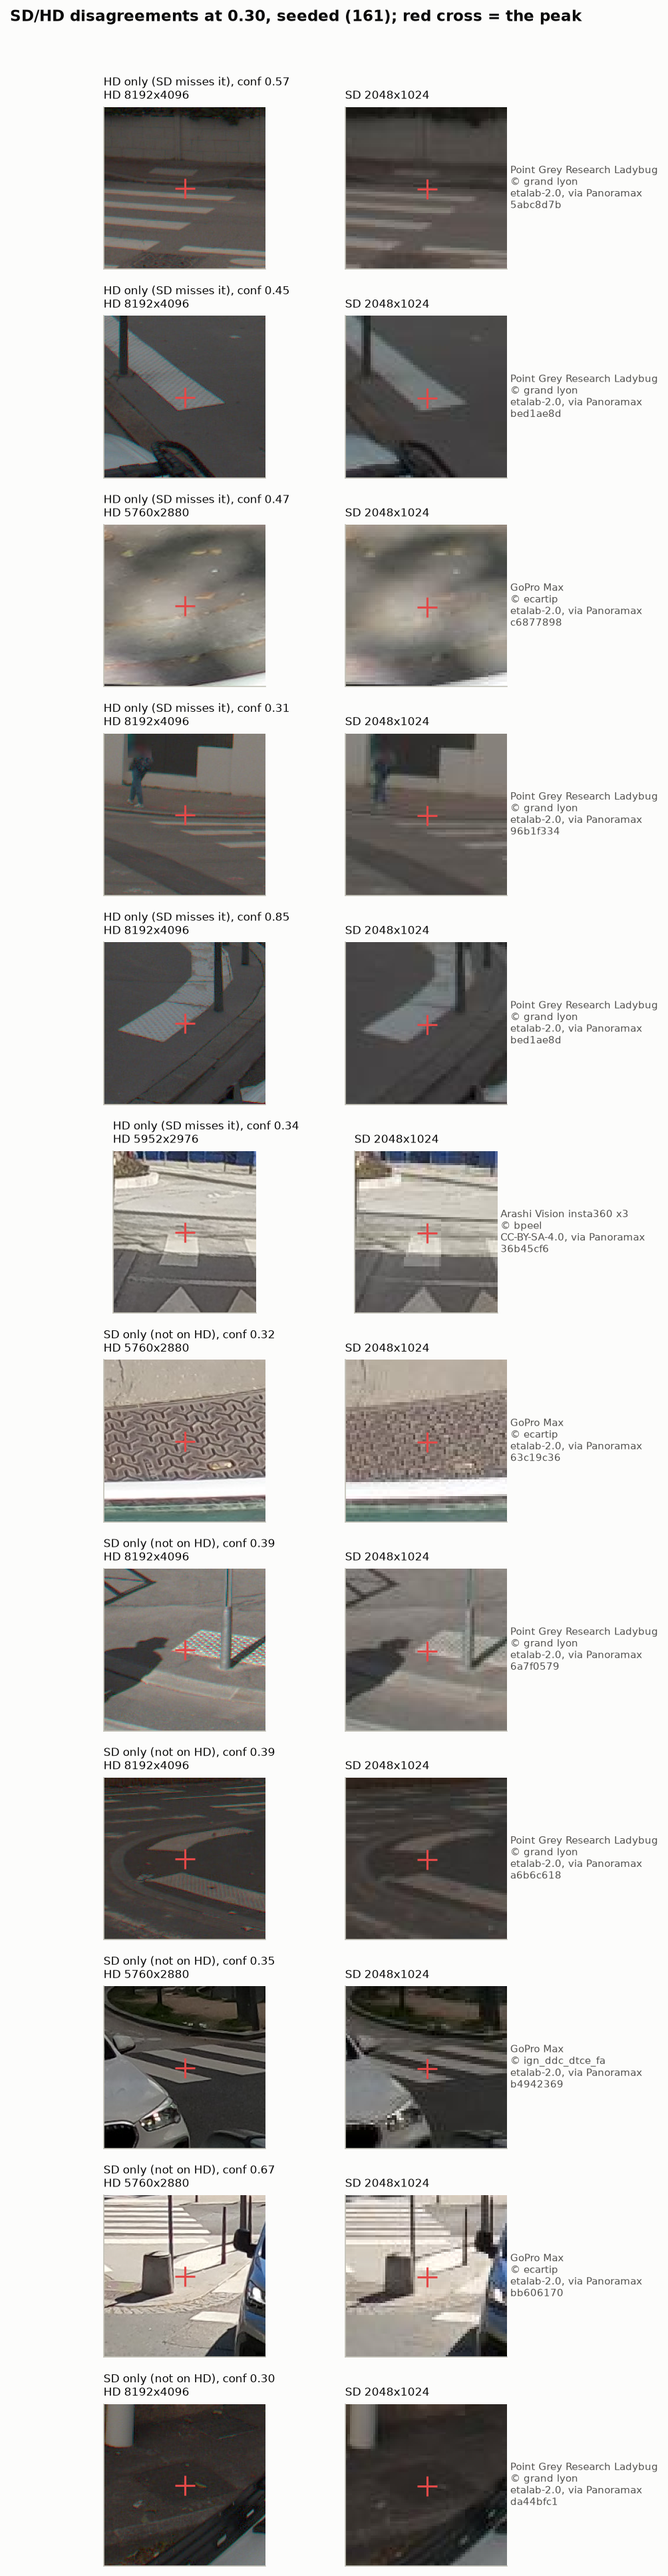
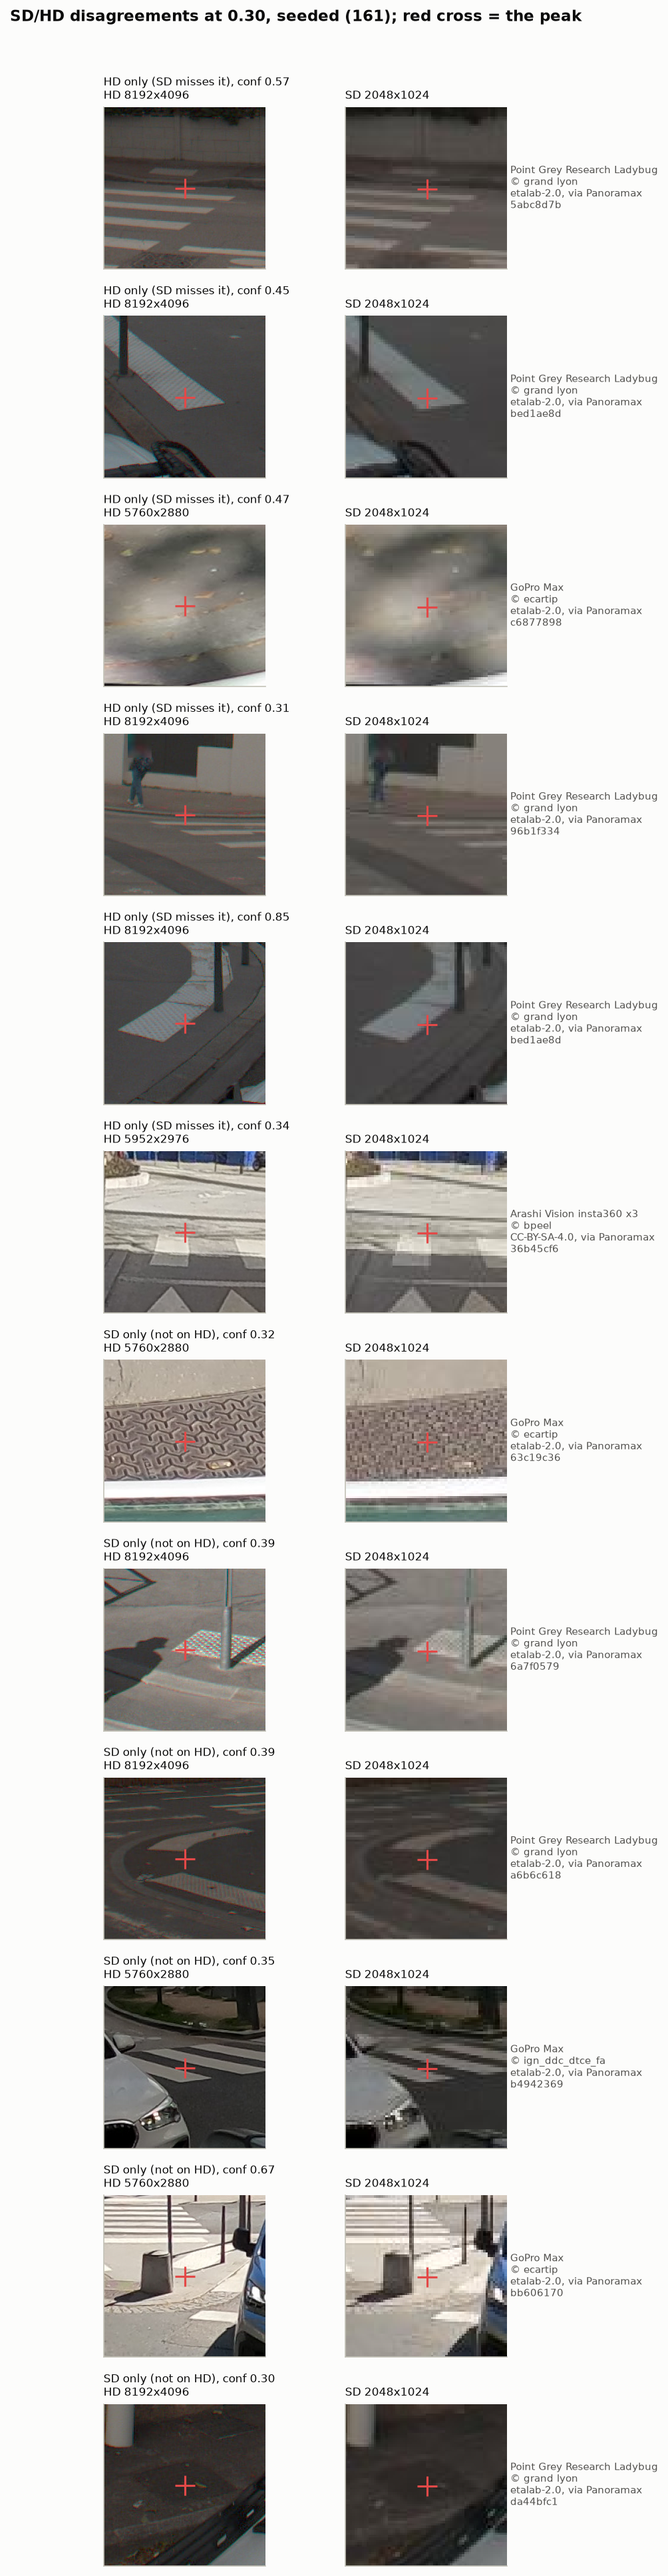
panoramax: review fixes for #173 (limiter coverage, prepare, wording)
From the deep review of PR #173:
- panoramax_bayonne_figures.py's two HD downloads now go through the
  picture limiter (they called requests.get directly).
- prepare() retries like the item fetch, waits out a 429/503 pause, and
  says "overloaded, retry later" rather than blaming PANORAMAX_API_URL.
- The binding refusal names the flag (--panoramax-asset <bound>).
- --scan-only prints the download floor beside the pipeline estimate.
- A failed /search un-marks its followers and rewinds the cursor, so a
  later miss batches them again; SD fallbacks count once per pano
  written; run entries record the effective processing concurrency.
- Study: the 37% / 26% / 15% wording separated, fetch_meta.json
  committed (fetch-sd now writes it), dead wilson() removed, contact
  sheet windows wrap the seam and pad the poles so the cross stays on
  the peak, and the detections.jsonl content-vs-bytes note.

diff --git a/sources/panoramax.py b/sources/panoramax.py
@@ -112,6 +112,7 @@ IMAGE_ASSETS = ('hd', 'sd')
 IMAGE_ASSET = 'hd'
 MANIFEST_ASSET_KEY = 'panoramax_asset'
 LEGACY_MANIFEST_BINDINGS = {MANIFEST_ASSET_KEY: 'hd'}
+MANIFEST_BINDING_FLAGS = {MANIFEST_ASSET_KEY: '--panoramax-asset'}   # named in a refusal
 
 # The catalog answers 404 for a picture id it doesn't know (deleted by its uploader, an
 # instance that left the federation, or never valid) — verified live for both a
@@ -158,13 +159,27 @@ def prepare():
     answer a STAC Catalog here).
     """
     root = api_url()
-    try:
-        response = _get(root, 'metadata', timeout=30)
-        response.raise_for_status()
-        catalog = response.json()
-    except Exception as e:
+    catalog, error, overloaded = None, None, False
+    for attempt in range(ATTEMPTS):
+        try:
+            response = _get(root, 'metadata', timeout=30)   # waits out any 429/503 pause
+            overloaded = getattr(response, 'status_code', None) in OVERLOAD_STATUSES
+            response.raise_for_status()
+            catalog = response.json()
+            break
+        except Exception as e:
+            error = e
+            if attempt < ATTEMPTS - 1:
+                time.sleep(2 * (attempt + 1) + random.uniform(0, 1))
+    if catalog is None and overloaded:
+        # The root is right; the server asked us to back off. Not a configuration error.
         raise SystemExit(
-            f"\u274c Panoramax API root {root} is not reachable ({e}).\n"
+            f"\u274c Panoramax catalog {root} is overloaded (HTTP 429/503 on every attempt).\n"
+            f"   Retry later; nothing was scanned or fetched."
+        )
+    if catalog is None:
+        raise SystemExit(
+            f"\u274c Panoramax API root {root} is not reachable ({error}).\n"
             f"   Check {API_URL_ENV_VAR}, or unset it to use the federation catalog\n"
             f"   ({DEFAULT_API_URL})."
         )
@@ -356,7 +371,7 @@ def fetch_pano(pano_id, lat, lon):
         return {'status': 'skipped',
                 'reason': f'Not a full 360x180 equirectangular ({declared[0]}x{declared[1]})'}
 
-    asset = 'hd'
+    asset, fell_back = 'hd', False
     if IMAGE_ASSET == 'sd':
         sd_url = image_url(item, asset='sd')
         if sd_url and declared and len(declared) == 2:
@@ -371,7 +386,7 @@ def fetch_pano(pano_id, lat, lon):
                                                   int(declared[1]),
                                                   image_info=_image_info('sd', sd_url, size)),
                         'image': image}
-        _count_fallback()   # no usable SD for this picture: read it in HD
+        fell_back = True    # no usable SD for this picture: read it in HD (counted below)
 
     downloaded, undecodable, detail = _download_image(url)
     if undecodable:
@@ -387,6 +402,8 @@ def fetch_pano(pano_id, lat, lon):
                 'reason': f'Not a full 360x180 equirectangular ({width}x{height})'}
 
     image_info = None if IMAGE_ASSET == 'hd' else _image_info(asset, url, (width, height))
+    if fell_back:
+        _count_fallback()   # once per pano written, not per attempt
     return {'status': 'success',
             'pano': build_pano_record(pano_id, lat, lon, item, width, height,
                                       image_info=image_info),
@@ -495,7 +512,7 @@ def _hinted_item(picture_id):
             return None
         chunk = [picture_id]
         requested.add(picture_id)
-        cursor = _HINT['cursor']
+        cursor = start = _HINT['cursor']
         while cursor < len(ids) and len(chunk) < SEARCH_CHUNK:
             pid = ids[cursor]
             cursor += 1
@@ -504,6 +521,12 @@ def _hinted_item(picture_id):
                 requested.add(pid)
         _HINT['cursor'] = cursor
         found = fetch_items(chunk)
+        if found is None:
+            # The request failed: nothing was learned about the followers, so let a later
+            # miss batch them again (this one goes to the per-id GET).
+            requested.difference_update(chunk[1:])
+            _HINT['cursor'] = start
+            return None
         if not found:
             return None
         for pid in chunk[1:]:

diff --git a/tests/test_panoramax_politeness.py b/tests/test_panoramax_politeness.py
@@ -502,3 +502,73 @@ def test_study_bootstrap_is_seeded_and_brackets_the_estimate():
     rows = [{"m": i % 3, "n": 3} for i in range(30)]
     lo, hi = study.bootstrap_ci(rows, "m", "n")
     assert lo <= 1 / 3 <= hi and (lo, hi) == study.bootstrap_ci(rows, "m", "n")
+
+
+# --- review of PR #173 ----------------------------------------------------------------
+
+def test_prepare_says_overloaded_not_misconfigured_on_429(monkeypatch):
+    clock = FakeClock()
+    lims = _limited(monkeypatch, clock)
+    monkeypatch.setattr(panoramax.time, "sleep", lambda s: None)
+    monkeypatch.setattr(panoramax.requests, "get", lambda url, **kw: _resp(
+        429, headers={"Retry-After": "7"}))
+    with pytest.raises(SystemExit) as e:
+        panoramax.prepare()
+    assert "overloaded" in str(e.value) and "PANORAMAX_API_URL" not in str(e.value)
+    assert lims["metadata"].pauses == panoramax.ATTEMPTS        # every attempt waited
+    answers = [_resp(503), _resp(200, payload={"stac_version": "1.0.0"})]
+    monkeypatch.setattr(panoramax.requests, "get", lambda url, **kw: answers.pop(0))
+    panoramax.prepare()                                          # a retry gets through
+
+
+def test_a_failed_search_lets_a_later_miss_rebatch_the_followers(monkeypatch):
+    monkeypatch.setattr(panoramax, "SEARCH_CHUNK", 3)
+    log = _search_server(monkeypatch, fail_search=True)
+    panoramax.queue_hint(["a", "b", "c"])
+    panoramax.fetch_item("a")                                   # search fails -> per-id
+    monkeypatch.setattr(panoramax, "fetch_items", lambda ids: log.append(("batch", ids)) or {
+        i: dict(make_item(), id=i) for i in ids})
+    assert panoramax.fetch_item("b")[0]["id"] == "b"
+    assert log[-1] == ("batch", ["b", "c"])                     # b, c were un-marked
+
+
+def test_refusal_names_the_flag(tmp_path, monkeypatch):
+    monkeypatch.setattr(panoramax, "IMAGE_ASSET", "sd")
+    with pytest.raises(SystemExit) as e:
+        main.bind_source_settings({"panoramax_asset": "hd"}, panoramax, _run_dir(tmp_path))
+    assert "pass --panoramax-asset hd for this run" in str(e.value)
+
+
+def test_fallback_counts_once_per_pano_written(monkeypatch):
+    monkeypatch.setattr(panoramax, "IMAGE_ASSET", "sd")
+    _patch_downloads(monkeypatch, {"sd.jpg": (None, False, "Image asset HTTP 404"),
+                                   "b7f9.jpg": (None, False, "reset")})
+    assert panoramax.fetch_pano("pid", 43.49, -1.47)["status"] == "failure"
+    assert panoramax.run_record()["asset_fallbacks"] == 0       # HD failed: nothing written
+
+
+def test_bayonne_figures_download_through_the_limiter(monkeypatch):
+    import io
+    import panoramax_bayonne_figures as bf
+    from PIL import Image
+    buf = io.BytesIO()
+    Image.new("RGB", (4, 2)).save(buf, "JPEG")
+    kinds = []
+    real = panoramax.limiter
+    monkeypatch.setattr(panoramax, "limiter", lambda kind: kinds.append(kind) or real(kind))
+    monkeypatch.setattr(panoramax.requests, "get", lambda url, **kw: _resp(
+        200, content=buf.getvalue()))
+    assert bf._fetch_image("https://x/hd.jpg").size == (4, 2)
+    assert kinds == ["picture"]
+
+
+def test_contact_sheet_window_keeps_the_peak_centred():
+    from PIL import Image
+    import panoramax_asset_figures as figs
+    img = Image.new("RGB", (100, 50), (255, 0, 0))
+    img.paste((0, 0, 255), (0, 0, 10, 50))                     # blue strip at the left edge
+    win = figs._window(img, 98, 2, 6)                           # straddles seam and top
+    assert win.size == (12, 12)
+    assert win.getpixel((11, 6)) == (0, 0, 255)                 # wrapped from x = 4
+    assert win.getpixel((2, 6)) == (255, 0, 0)
+    assert win.getpixel((6, 0)) == (128, 128, 128)              # padded above the top

diff --git a/main.py b/main.py
@@ -764,6 +764,7 @@ def bind_source_settings(manifest, source, run_dir):
     if hook is None:
         return False
     legacy = getattr(source, 'LEGACY_MANIFEST_BINDINGS', {})
+    flags = getattr(source, 'MANIFEST_BINDING_FLAGS', {})
     results = run_dir / 'results.jsonl'
     has_records = results.exists() and results.stat().st_size > 0
     changed = False
@@ -777,10 +778,12 @@ def bind_source_settings(manifest, source, run_dir):
                 changed = True
                 continue
         if bound != value:
+            hint = (f"pass {flags[key]} {bound} for this run" if key in flags
+                    else "pass the run's own setting")
             sys.exit(
                 f"❌ Run '{run_dir.name}' was made with {key} '{bound}', not '{value}'.\n"
                 f"   Appending would mix two kinds of record in one results.jsonl (issue #161).\n"
-                f"   Use a new --name for this setting (never a resume), or pass the run's own."
+                f"   Use a new --name for this setting (never a resume), or {hint}."
             )
     return changed
 
@@ -1148,8 +1151,10 @@ def run_labeler(geojson_path, run_name, source, scan_only=False, limit=None, thi
         print(f"Scan only — no panoramas processed, nothing recorded in the manifest; "
               f"the scan is saved to {scan_cache_file} for a later --reuse-scan.")
         print(f"Estimated full-run time: ~{est_hours:.1f} h at {per_pano:g} s/pano "
-              + ("(the source's download pacing sets the rate)." if floor > 1.5 else
-                 "(single GPU; measure your machine's rate on a smoke run first)."))
+              f"(single GPU; measure your machine's rate on a smoke run first).")
+        if floor:
+            print(f"Download floor alone: ~{len(panos_to_process_ids) * floor / 3600:.1f} h at "
+                  f"{floor:g} s/pano (the source's pacing; the run can never beat it).")
         return
 
     # 4. Process new panoramas
@@ -1157,7 +1162,8 @@ def run_labeler(geojson_path, run_name, source, scan_only=False, limit=None, thi
 
     if not panos_to_process_ids:
         print("🎉 No new panoramas to process.")
-        scan_record.update(source_run_record(source))   # #161
+        scan_record.update(source_run_record(source),   # #161
+                           processing_concurrency=PROCESSING_CONCURRENCY)
         record_run(manifest_path, manifest, started_at, len(all_panos_in_area), 0, 0, 0,
                    scan=scan_record, provenance=provenance, thinning=thinning_record)
     else:
@@ -1186,7 +1192,8 @@ def run_labeler(geojson_path, run_name, source, scan_only=False, limit=None, thi
                         fail_count += 1
                     pbar.update(1)
 
-        scan_record.update(source_run_record(source))   # #161
+        scan_record.update(source_run_record(source),   # #161
+                           processing_concurrency=PROCESSING_CONCURRENCY)
         record_run(manifest_path, manifest, started_at, len(all_panos_in_area), success_count, skip_count, fail_count,
                    scan=scan_record, provenance=provenance, thinning=thinning_record)
 

diff --git a/scripts/panoramax_asset_figures.py b/scripts/panoramax_asset_figures.py
@@ -163,6 +163,22 @@ def main():
     fig_confidence(plt)
 
 
+def _window(img, cx, cy, r):
+    """A (2r x 2r) crop centred on (cx, cy) that keeps the peak at the centre: wrapped
+    across the 360-degree seam horizontally, padded with grey past the top/bottom edge."""
+    from PIL import Image
+    w, h = img.size
+    side = int(round(2 * r))
+    x0, y0 = int(round(cx - r)), int(round(cy - r))
+    out = Image.new('RGB', (side, side), (128, 128, 128))
+    for shift in (-w, 0, w):                       # the image and its two seam neighbours
+        left, right = max(0, x0 - shift), min(w, x0 - shift + side)
+        top, bottom = max(0, y0), min(h, y0 + side)
+        if left < right and top < bottom:
+            out.paste(img.crop((left, top, right, bottom)), (left + shift - x0, top - y0))
+    return out
+
+
 def contact_sheet(data, per_kind=6):
     """A seeded sheet of disagreements at 0.30: HD peaks SD misses (no SD peak >= 0.1
     within the radius) and SD peaks HD has nothing near, `per_kind` of each drawn with
@@ -185,10 +201,7 @@ def contact_sheet(data, per_kind=6):
         for col, arm in enumerate(('hd', 'sd')):
             img = Image.open(data / arm / f'{pid}.jpg').convert('RGB')
             w, h = img.size
-            cx, cy, r = x * w, y * h, half * w
-            crop = img.crop((int(cx - r), int(cy - r), int(cx + r), int(cy + r))) \
-                if r <= cx <= w - r else img.crop((max(0, int(cx - r)), int(cy - r),
-                                                   min(w, int(cx + r)), int(cy + r)))
+            crop = _window(img, x * w, y * h, half * w)
             ax = axes[row][col]
             ax.imshow(crop)
             ax.plot(crop.size[0] / 2, crop.size[1] / 2, marker='+', ms=14, mew=1.5,

diff --git a/scripts/panoramax_bayonne_figures.py b/scripts/panoramax_bayonne_figures.py
@@ -417,18 +417,16 @@ def _fig7b_data(loaded):
 
 # ============================================================================ examples
 def _fetch_image(url):
-    import requests
     from PIL import Image
     from sources import panoramax as px
-    return Image.open(io.BytesIO(requests.get(url, headers=px._headers(),
-                                              timeout=180).content)).convert('RGB')
+    # Paced by the source's picture limiter (1/s, #161) like every Panoramax download.
+    return Image.open(io.BytesIO(px._get(url, 'picture', timeout=180).content)).convert('RGB')
 
 
 def cmd_skips(args):
     """data/skips.csv: why each cached skip of the run was skipped (network: one STAC item
     per id, plus the first 512 KB of the image for the served size). main.py logs no
     per-pano reasons, so this reconstructs them from today's metadata."""
-    import requests
     from PIL import Image
     from sources import panoramax as px
     run = args.run_root / CITY
@@ -456,8 +454,7 @@ def cmd_skips(args):
             row['reason'] = 'no view:azimuth'
             rows.append(row)
             continue
-        with requests.get(px.image_url(item), headers=px._headers(), timeout=180,
-                          stream=True) as r:
+        with px._get(px.image_url(item), 'picture', timeout=180, stream=True) as r:
             head = r.raw.read(512 * 1024)
         try:
             w, h = Image.open(io.BytesIO(head)).size

diff --git a/scripts/panoramax_asset_study.py b/scripts/panoramax_asset_study.py
@@ -150,16 +150,6 @@ def compare_pano(hd, arm, tier):
             'deltas': deltas, 'classes': classes}
 
 
-def wilson(k, n, z=1.96):
-    if n == 0:
-        return (float('nan'), float('nan'))
-    p = k / n
-    den = 1 + z * z / n
-    centre = (p + z * z / (2 * n)) / den
-    half = z * math.sqrt(p * (1 - p) / n + z * z / (4 * n * n)) / den
-    return (max(0.0, centre - half), min(1.0, centre + half))
-
-
 def ratio(num, den):
     return num / den if den else float('nan')
 
@@ -411,7 +401,15 @@ def cmd_fetch_sd(args):
               ['panorama_id', 'status', 'sd_url', 'bytes', 'sha256', 'sd_width', 'sd_height',
                'live_sensor'])
     print(Counter(r['status'].split(':')[0] for r in done.values()))
-    print(json.dumps(panoramax.run_record(), indent=1))
+    record = panoramax.run_record()
+    print(json.dumps(record, indent=1))
+    # Committed: the measured pacing of this pass (the "1.71 s/picture" in the doc).
+    wall = time.time() - t0
+    (OUT / 'fetch_meta.json').write_text(json.dumps(
+        {'pictures_this_pass': len(todo), 'wall_s_downloads': round(wall, 1),
+         's_per_picture': round(wall / len(todo), 3) if todo else None,
+         'statuses': dict(Counter(r['status'].split(':')[0] for r in done.values())),
+         **record}, indent=2, sort_keys=True) + '\n', encoding='utf-8', newline='\n')
 
 
 # ============================================================================ run

diff --git a/docs/panoramax-asset-study.md b/docs/panoramax-asset-study.md
@@ -138,16 +138,17 @@ PS pano store and the native-res archive all read HD whichever asset detection u
 clause 2 on recall (GoPro Max and the Ladybug on precision too). `--panoramax-asset` keeps
 `hd` as its default; `sd` stays available, bound per run.
 
-**What SD would cost.** Run on SD at 0.30, a Lyon-like city would miss about 37% of the labels
-HD ships (878 SD peaks against 1,182 HD peaks here), and about 15% of what it did ship would
-be labels HD does not make;
+**What SD would cost.** Run on SD at 0.30, a Lyon-like city would miss about 37% of the
+labels HD ships (744 of HD's 1,182 peaks matched), and it would ship 26% fewer labels in all
+(878 against 1,182), about 15% of which are labels HD does not make (878 - 744 = 134);
 lowering the threshold to win recall back trades it against precision on an image the model
 was not trained on. What it would save: 18x the bytes per picture on Panoramax's side.
 Recovering SD would need a model trained or fine-tuned at that resolution, which is a
 RampNet question, not a labeler one.
 
-**What the politeness changes buy instead.** At HD, pacing is the lever: 1 picture/s (1.71
-s/picture end to end in this study's SD fetch: 600 pictures, 0 errors, 0 pauses), one
+**What the politeness changes buy instead.** At HD, pacing is the lever: 1 picture/s (about
+1.7 s/picture end to end in this study's SD fetch: 600 pictures, 0 errors, 0 pauses;
+`fetch_meta.json`), one
 `/search` request per 100 pictures (6 metadata requests for the 600), and 4 workers instead
 of 50.
 
@@ -165,7 +166,8 @@ and its one-to-one SD partner (any SD peak >= 0.1); the diagonal is equal confid
 `figures/panoramax-asset/contact_sheet_disagreements.png` shows 6 HD-only and 6 SD-only
 peaks drawn with seed 161, each as an HD crop beside the SD crop of the same window,
 captioned with its producer and licence (Etalab-2.0 for Grand Lyon / IGN pictures, CC BY-SA
-4.0 otherwise), via Panoramax.
+4.0 otherwise), via Panoramax. Each window is +-6 degrees around the peak, wrapped across
+the seam and padded grey past the top or bottom, so the cross is always on the peak.
 
 ## 3. Replication
 
@@ -196,11 +198,13 @@ Seed 161 (sample, bootstrap, contact sheet). Model `rampnet-model@606a11956743`,
 `606a11956743f7eb328d9207769034752f6191f4`, argmax decode, `exclude` border, batch size 1.
 Python 3.12.13, torch 2.8.0+cu126, transformers 5.12.1, Pillow 12.3.0, matplotlib 3.11.2.
 Host: Windows 11 desktop, NVIDIA RTX 3070 (8 GB; peak 4,288 MiB allocated). Runtime: SD fetch
-1,037 s (600 pictures, 1.71 s each); `run` 1,711 s for hd + sd_sim (1,200 forwards) and 615 s
+1,037 s for the whole command (600 pictures, ~1.7 s each; `fetch_meta.json`); `run` 1,711 s for hd + sd_sim (1,200 forwards) and 615 s
 for sd (600), ~0.95 s per forward plus decode; `score` and `figures` take seconds.
 `figures` is byte-reproducible from the committed `summary.csv`, `per_rig.csv` and
 `detections.jsonl` (checked by running it twice). `score` reads `<data>`'s
-`detections.jsonl` (identical to the committed one) and `stored.jsonl`.
+`detections.jsonl` and `stored.jsonl`; the committed `detections.jsonl` holds the same
+detections and native sizes (content-identical) but drops the local copy's `forward_s`
+timing column, so the two files are not byte-identical.
 
 ## 4. Where each number lives
 
@@ -221,4 +225,5 @@ All under `runs/_summary/panoramax_asset/` unless noted.
 | /search vs /pictures equivalence | `search_check.csv` | `identical_block` |
 | sample strata and pools | `sample.csv`, `sample_meta.json` | `rig`, `stratum`; `pools`, `drawn` |
 | GPU, timings, peak memory | `run_meta_pass1.json` (hd, sd_sim), `run_meta_pass2.json` (sd) | |
+| SD fetch pacing and request counts | `fetch_meta.json` | `s_per_picture`, `panoramax_requests` |
 | 1,041 / 298 / 141 (figure 2's annotation) | recomputed from `detections.jsonl` by `figures` | |

diff --git a/CLAUDE.md b/CLAUDE.md
@@ -1028,7 +1028,8 @@ Panoramax (HTTP 404; ...)`) so a run log can count them.
   `runs/_summary/panoramax_asset/search_check.csv`); an id the search leaves out falls back
   to the per-id GET, never read as gone. `MAX_PROCESSING_CONCURRENCY = 4` caps the pool.
   **The arithmetic:** at 1 picture/s a Lyon-size run (174k panos) is ~48 h of downloads and
-  Bayonne (50k) ~14 h; `--scan-only`'s estimate uses that floor. `--panoramax-asset
+  Bayonne (50k) ~14 h; `--scan-only` prints that download floor beside its usual 1.5 s/pano
+  pipeline estimate (Lyon ~73 h), and the run is bounded by the larger. `--panoramax-asset
   {hd,sd}` picks the downloaded asset. The default stays `hd` by
   docs/panoramax-asset-study.md's pre-registered rule: on 600 Lyon panos SD kept only 0.629
   of HD's 0.30 detections (precision 0.847 vs HD; bar 0.95 each; every rig failed), mostly
